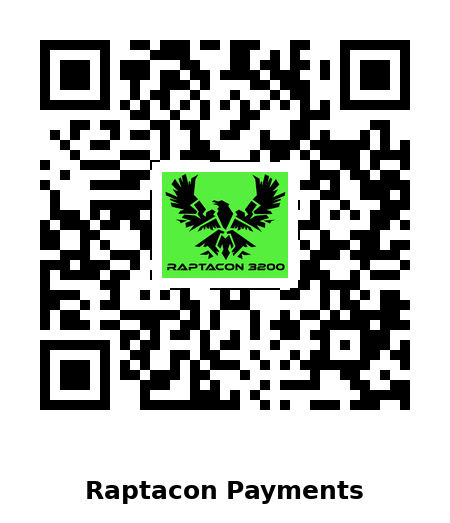
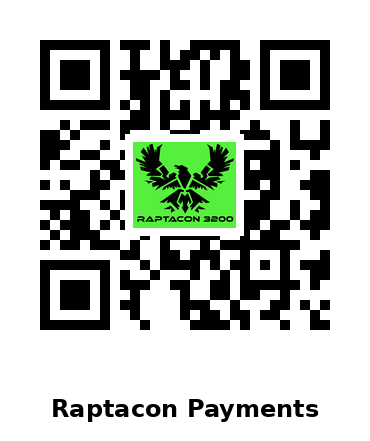
Add Remind QR code; payments QR uses pay.raptacon.org

diff --git a/qr-generator/test_codes.py b/qr-generator/test_codes.py
@@ -18,7 +18,7 @@ CODES = HERE / "codes"
 
 TARGET = re.compile(
     # One target's recipe: no blank line between its --url and --output.
-    r'--url "(?P<url>https?://[^"]+)"(?:(?!\n\n).)*?--output "\$\(CODES\)/(?P<png>[^"]+)"',
+    r'--url "(?P<url>(?:https?://|sms:)[^"]+)"(?:(?!\n\n).)*?--output "\$\(CODES\)/(?P<png>[^"]+)"',
     re.S,
 )
 
@@ -29,7 +29,7 @@ def named_codes():
 
 
 def test_makefile_has_named_codes():
-    assert len(named_codes()) >= 10
+    assert len(named_codes()) >= 11
 
 
 @pytest.mark.parametrize("png,url", sorted(named_codes().items()))

diff --git a/qr-generator/README.md b/qr-generator/README.md
@@ -28,7 +28,8 @@ Download a PNG straight from GitHub; no setup needed.
 | [Handbook acknowledgment](codes/handbook_acknowledgment.png) | `handbook_ack` | Handbook acknowledgment form |
 | [Team calendar](codes/team_calendar.png) | `team_calendar` | Team calendar page |
 | [Discord](codes/discord_signup.png) | `raptacon_discord_signup` | Discord invite |
-| [Payments](codes/raptacon_payments.png) | `raptacon_payments` | Boosters payment store |
+| [Remind](codes/remind_signup.png) | `remind_signup` | Texts @3200rapta to 81010 (Remind sign-up) |
+| [Payments](codes/raptacon_payments.png) | `raptacon_payments` | Boosters payment store (pay.raptacon.org) |
 
 To change a link: edit its target's `--url` in the Makefile, run
 `make codes`, and commit the regenerated PNG. `make test` fails if a

diff --git a/qr-generator/codes/README.md b/qr-generator/codes/README.md
@@ -16,4 +16,5 @@ To change a link, see [Ready-made codes](../README.md#ready-made-codes).
 | Handbook acknowledgment | [<img src="handbook_acknowledgment.png" width="160" alt="Handbook acknowledgment QR code">](handbook_acknowledgment.png) | `handbook_ack` |
 | Team calendar | [<img src="team_calendar.png" width="160" alt="Team calendar QR code">](team_calendar.png) | `team_calendar` |
 | Discord | [<img src="discord_signup.png" width="160" alt="Discord QR code">](discord_signup.png) | `raptacon_discord_signup` |
+| Remind | [<img src="remind_signup.png" width="160" alt="Remind QR code">](remind_signup.png) | `remind_signup` |
 | Payments | [<img src="raptacon_payments.png" width="160" alt="Payments QR code">](raptacon_payments.png) | `raptacon_payments` |
